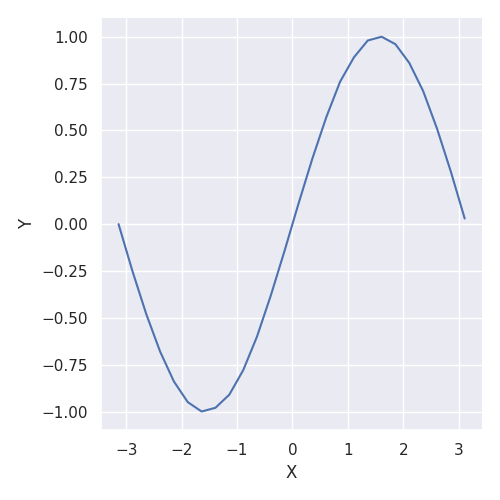
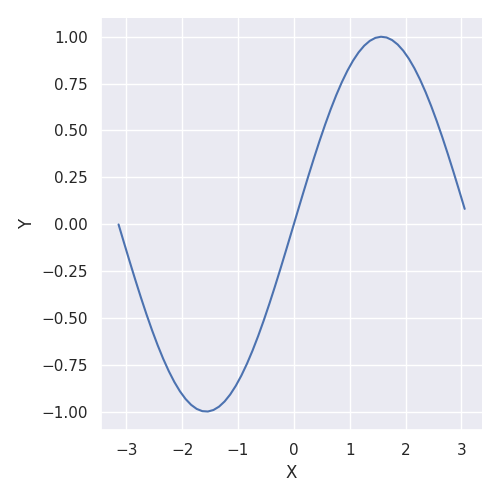
Adding detailed seaborn graph example.

diff --git a/sns_example1.py b/sns_example1.py
@@ -3,16 +3,14 @@
 import seaborn as sns
 import matplotlib.pyplot as plt
 import pandas as pd
+import numpy as np
+import math
 
-data = (
-    {
-        "X": [-3.14,-2.89,-2.64,-2.39,-2.14,-1.89,-1.64,-1.39,-1.14,-0.89,-0.64,-0.39,-0.14,0.11,0.36,0.61,0.86,1.11,1.36,1.61,1.86,2.11,2.36,2.61,2.86,3.11],
-        "Y": [-0.00,-0.25,-0.48,-0.68,-0.84,-0.95,-1.00,-0.98,-0.91,-0.78,-0.60,-0.38,-0.14,0.11,0.35,0.57,0.76,0.89,0.98,1.00,0.96,0.86,0.71,0.51,0.28,0.03]
-    }
-)
+data = pd.DataFrame()
+data['X'] = pd.array(np.arange(-3.14, 3.14, 0.1))
+data['Y'] = pd.array([(math.sin(x)) for x in np.arange(-3.14, 3.14, 0.1)])
 
 # Create the Figure and Axes
 sns.set_theme()
-df = pd.DataFrame(data)
-sns.relplot(df, x="X", y="Y", kind="line")
+sns.relplot(data, x="X", y="Y", kind="line")
 plt.savefig("data/sns_pi_chart.png")

diff --git a/datagen.py b/datagen.py
@@ -2,6 +2,9 @@
 
 # Imports
 import math
+import pandas as pd
+import numpy as np
+
 
 def pidata(st,en,step,func,formatter=None):
     xaxis = ""
@@ -24,3 +27,18 @@ def pidata(st,en,step,func,formatter=None):
 # PI series
 ax, ay = pidata(-math.pi,math.pi,0.25,lambda x: math.sin(x),lambda x:f"{x:.2f}")
 print(f"[{ax}],\n[{ay}]")
+
+
+# def stepFunc(steps, offset, ratio)
+#     arr = []
+#     for i in range(0, steps):
+#         if i == 0:
+#             arr.append(offset)
+#         yield offset + i * ratio
+# culmn = 0.0
+# for i in range(0, 100):
+
+data = pd.DataFrame()
+data['X'] = pd.array(np.arange(0, 100))
+data['Y'] = pd.array([(np.random.randint(0,x+1)) for x in data['X']])
+                      

diff --git a/sns_example2.py b/sns_example2.py
@@ -1,0 +1,15 @@
+#!/usr/local/bin/python3
+
+import seaborn as sns
+import matplotlib.pyplot as plt
+import pandas as pd
+import numpy as np
+import math
+
+data = pd.DataFrame()
+data['X'] = pd.array(np.arange(0, 100))
+data['Y'] = pd.array([(np.random.randint(0,x+1)) for x in data['X']])
+data['Depth'] = pd.array([(np.random.randint(0,5)) for x in range(0,100)])
+
+sns.scatterplot(data, x="X", y="Y", hue="Depth")
+plt.savefig("data/sns_scatter.png") 

diff --git a/pandas_tutorial.md b/pandas_tutorial.md
@@ -2,12 +2,13 @@
 
 ## Overview
 
-Pandas is a python package for data analysis used for managing, querying and processing data in python.  It is part of the Anaconda distribution, which is large suite of tools for data processing.  Installing pandas is platform dependent, so check your local distrubution for information on how to setup the installation and access via python code.  Instructions on installing the normal way are on the [pandas installation page](https://pandas.pydata.org/docs/getting_started/install.html).
+[Pandas](https://pandas.pydata.org/) is a python package for data analysis used for managing, querying and processing data in python.   Described later, [Mathplotlib](https://matplotlib.org/) and [Seaborn](https://seaborn.pydata.org/) are packages for data visualization.  Widely used in scientific computing, paper writing, AI, and other fields, the related tools provide programming interfaces to create figures that highlight trends and other artifacts of data.  This tutorial is intended as a quick start guide to using Pandas and other tools for data management and research.
 
-This tutorial is intended as a quick start guide to using Pandas and other tools for data management and research.  There are many sources, but I am begining with the [pandas getting started](https://pandas.pydata.org/docs/getting_started/index.html) documentation.  Later in this document as I get into other documents I will identify other sources.  
+## Pandas
 
-## Dataframes
+Pandas is part of the Anaconda distribution, which is large suite of tools for data processing.  Installing pandas is platform dependent, so check your local distrubution for information on how to setup the installation and access via python code.  Instructions on installing the normal way are on the [pandas installation page](https://pandas.pydata.org/docs/getting_started/install.html).  Note here that I am using the [pandas getting started](https://pandas.pydata.org/docs/getting_started/index.html) documentation as a starting place (more detail available there). 
 
+### Dataframes
 The basic unit of data is called a **DataFrame**, which is a 2-dimensional object representing a collection of data.  Each DataFrame is organized as a set of rows and columns, which you can conceptually think about as a spreadshet.  Each column has a name (generally) and rows contain data for an example of each of the things you are recording.  The table cells can hold text, numnber, floating point, categorical data, and more.  The data in a column is called a **series**.
 
 ##### Simple Example (example1.py)
@@ -22,7 +23,7 @@ The basic unit of data is called a **DataFrame**, which is a 2-dimensional objec
     df = pd.DataFrame(data)
     print(df)
 
-## Working with series
+### Working with series
 
 Much of the work you will do relates to the processing of the data, and most of that will be extracting, projecting, creating, and manipulating series.  The simplist way to think about it is to remain thinking of the DataFrame as a table of data like you might see in Excel or SQL.
 
@@ -39,7 +40,7 @@ The most basic operation on at DataFrame is to access one of the series.  To do 
     df2 = pd.DataFrame(grades)
     print("The grades dataframe:" + str(df2))
 
-## Getting Data into and out of Pandas
+### Getting Data into and out of Pandas
 
 Most of the time you will not be creating all of your data within a python program, but loading it from an external source.  The simplest way to do this is to use the built in Pandas functions.  The one I use most frequently is the read function for CSV (comma separated value) data format.  It is super simple, where you give it a file name and call the appropriate function.  The supported types include csv, excel, json, etc.  You can also export the data to different data types in a similar manner.  You simply call a "to" function on the DataFrame and it create the external file.  
 
@@ -73,7 +74,7 @@ We are going to use the above frequency data for the following tutorials, where 
 
 The only difference between our three data sets is that the *letfreq* series is replaced with two or three letter combinations, *bigram* and *trigram*, respectively.  The output from example3.py shows you the data in a format that visualizes this.
 
-### Extracting data from data frames
+#### Extracting data from data frames
 
 To get a series, you simply reference it like it is an associative array, e.g.,
 
@@ -102,7 +103,7 @@ Referencing data from pandas is very flexible.  You can extract by range or by s
 
 ## Mathplotlib
 
-Now that we have some data, we are going to want to do something with it.  For now, we just want to visuailze it, which means we want to create some figures that allow us to see something interesting.  We will initially talk about mathplotlib, which is a visulization framework for data (see documentation and tutorial [here](https://matplotlib.org/stable/users/index.html#users-guide-index)).  Later (below), we will talk about seaborne, which is an extension of the mathplotlib library with lots of cool extensions and modifications to make the plots easier to code and look better.
+Now that we have some data, we are going to want to do something with it.  For now, we just want to visuailze it, which means we want to create some figures that allow us to see something interesting.  We will initially talk about mathplotlib, which is a visulization framework for data (see documentation and tutorial [here](https://matplotlib.org/stable/users/index.html#users-guide-index)).  Later (below), we will talk about Seaborn, which is an extension of the mathplotlib library with lots of cool extensions and modifications to make the plots easier to code and look better.
 
 The first thing to understand is a bit of terminology.  Within Mathplotlib, you operate on graphs where are called **Figure**s, which contains **Axes**, which in turn may contain one more **Axis** (we dicuss the difference between these objectt below--keenly the difference between Axes and Axis objects/data structures).  Looking a bit ahead, Axis are ways to plot data that are specified in terms of x-y or x-y-z coordinate in whatever coordinate system you are using.  There are other things like labels, legends, grids, spines, and whole lot more.  The best way to visualize it all is looking a the diagram provided by the matplotlib documentation.
 
@@ -193,35 +194,62 @@ Viaually, this is the result of all of this work:
 
 ![mpl_example3.py output](data/numbers.png)
 
-There are all kinds of plots with different options (see [here](https://matplotlib.org/stable/plot_types/index.html) for a list and some demonstrations).  
+There are all kinds of plots with different options (see [here](https://matplotlib.org/stable/plot_types/index.html) for a list and some demonstrations).  You can also create a figure with mutiple plots, axes, etc.  The limtations are boundless and they grow in depth every day.
 
+One last example shows some of this power and deomstrates a couple of plot types, namely scatter and error bar plots.  See here:
 
-Viaually, this is the result of all of this work:
+#### Mathplotlib example (mpl_example4.py)
+
+    sctrx = np.random.randint(0, 100, 100)
+    sctry = np.random.randint(0, 100, 100)
+
+    errbarx = np.arange(0,100,5)
+    errbary = np.random.randint(0, 100, 20)
+    errbar_error = np.random.randint(10, 25, 20)
+
+    fix, axes = plt.subplots(2, 1)
+    axes[0].scatter(sctrx, sctry, color="red")
+    axes[0].set_title("Scatter Plot")
+    axes[0].grid(True)
+    axes[1].errorbar(errbarx, errbary, yerr=errbar_error, fmt='o')
+    axes[1].set_title("Error Bar Plot")
+    axes[1].grid(True)
+    plt.tight_layout()
+    plt.savefig("data/complex.png")
+
+Getting into this code, you can see the plot begins with the creation of a 2 by 1 (stacked) set of plots.  Once we have those, we can do all of the things we did above--but this time to each index of the array of axes--including setting titles, grids, etc.  Lastly, we include the tight_layout() function because it ensures the data layout allows for the annotations of the different axes to not interfer (i.e., overlay) each other.  The resulting figure looks like this:
 
 ![mpl_example4.py output](data/complex.png)
 
-
----
-
-Types of figures
-
-bar
-
-histogram - takes a series and bins them into descrete values, calculates the numbers of occurences in each bin.
-
-
-tight_layout - critical for making it look nice
-
----
-
 ## Seaborn
 
-Seaborn is a wrapper for the Mathplotlib which greatly simplifies and enhances creating visuals.  It handles the same kinds of data frames, series (arrays) as pandas and matplotlib and generates plots as direct.  Seaborne is built on top of matplotlib, so You cal also access the underlying matplotlib functions to fine tune your objects.
+Seaborn is a wrapper for the mathplotlib which greatly simplifies and enhances creating visuals.  In short, the result of Seaborn is to make figures which appear to be more stylized (some would say more modern and professional).  It handles the same kinds of data frames, series (arrays) as pandas and matplotlib and generates plots as direct.  Seaborn is built on top of matplotlib, so You call also access the underlying matplotlib functions to fine tune your objects.
 
 One of the concepts seaborn introduces is the notion of a theme, which is a overarching set of parameters for images.  Basically, it is a set of optimizations for your plots which makes things work faster, easier, and look nicer.  For most people using the default theme is sufficient.  Under the hood, this is interacting with the matplotlib rcParam system.
 
 Perhaps the most powerful call in seaborn is to the relplot() function, which can create any number of visualizations from very simple inputs.  Basically, it shows the relationship between two variables in the form of a scatter or line plot.
 
-Starting from the beginning, lets do another very simple plot only this time with Seanborne.  For fun, we will go back to our original above.
+Starting from the beginning, lets do another the first simple plot from the previous section only this time with Seanborne.  Here, I use the pandas version of the data creation rather than the hardcoded definition.  The code here is:
+
+#### Seaborn example (sns_example1.py)
+
+    data = pd.DataFrame()
+    data['X'] = pd.array(np.arange(-3.14, 3.14, 0.1))
+    data['Y'] = pd.array([(math.sin(x)) for x in np.arange(-3.14, 3.14, 0.1)])
+
+    sns.set_theme()
+    df = pd.DataFrame(data)
+    sns.relplot(df, x="X", y="Y", kind="line")
+    plt.savefig("data/sns_pi_chart.png")
+
+There are really two lines of Seaborn here (the data frame and savefig() code is the same as above).  The first is set_theme(), which is a function to, well, set the theme.  Without the argument it defaults the standard theme.  However, the function is quite flexible and can be used to set a lot of paramters used to style the theme such as pallet, style. etc.  See the documentation for [set_theme()](https://seaborn.pydata.org/generated/seaborn.set_theme.html) for more information.
+
+The second function, relplot() is really the function used to setup the whole figure.  In this case a relative plot which visualizes relationships between variables in a dataset (in this case a data frame showing y=sin(x)).  The only non-obvious part of this is X and Y, which refer to series in the data frame to perform the relative plot on.
 
 ![SNS example 1](data/sns_pi_chart.png)
+
+Now turning to perhaps a more interesting graph, I want to
+
+https://seaborn.pydata.org/generated/seaborn.scatterplot.html
+
+#![SNS example 2](data/sns_scatter.png)
